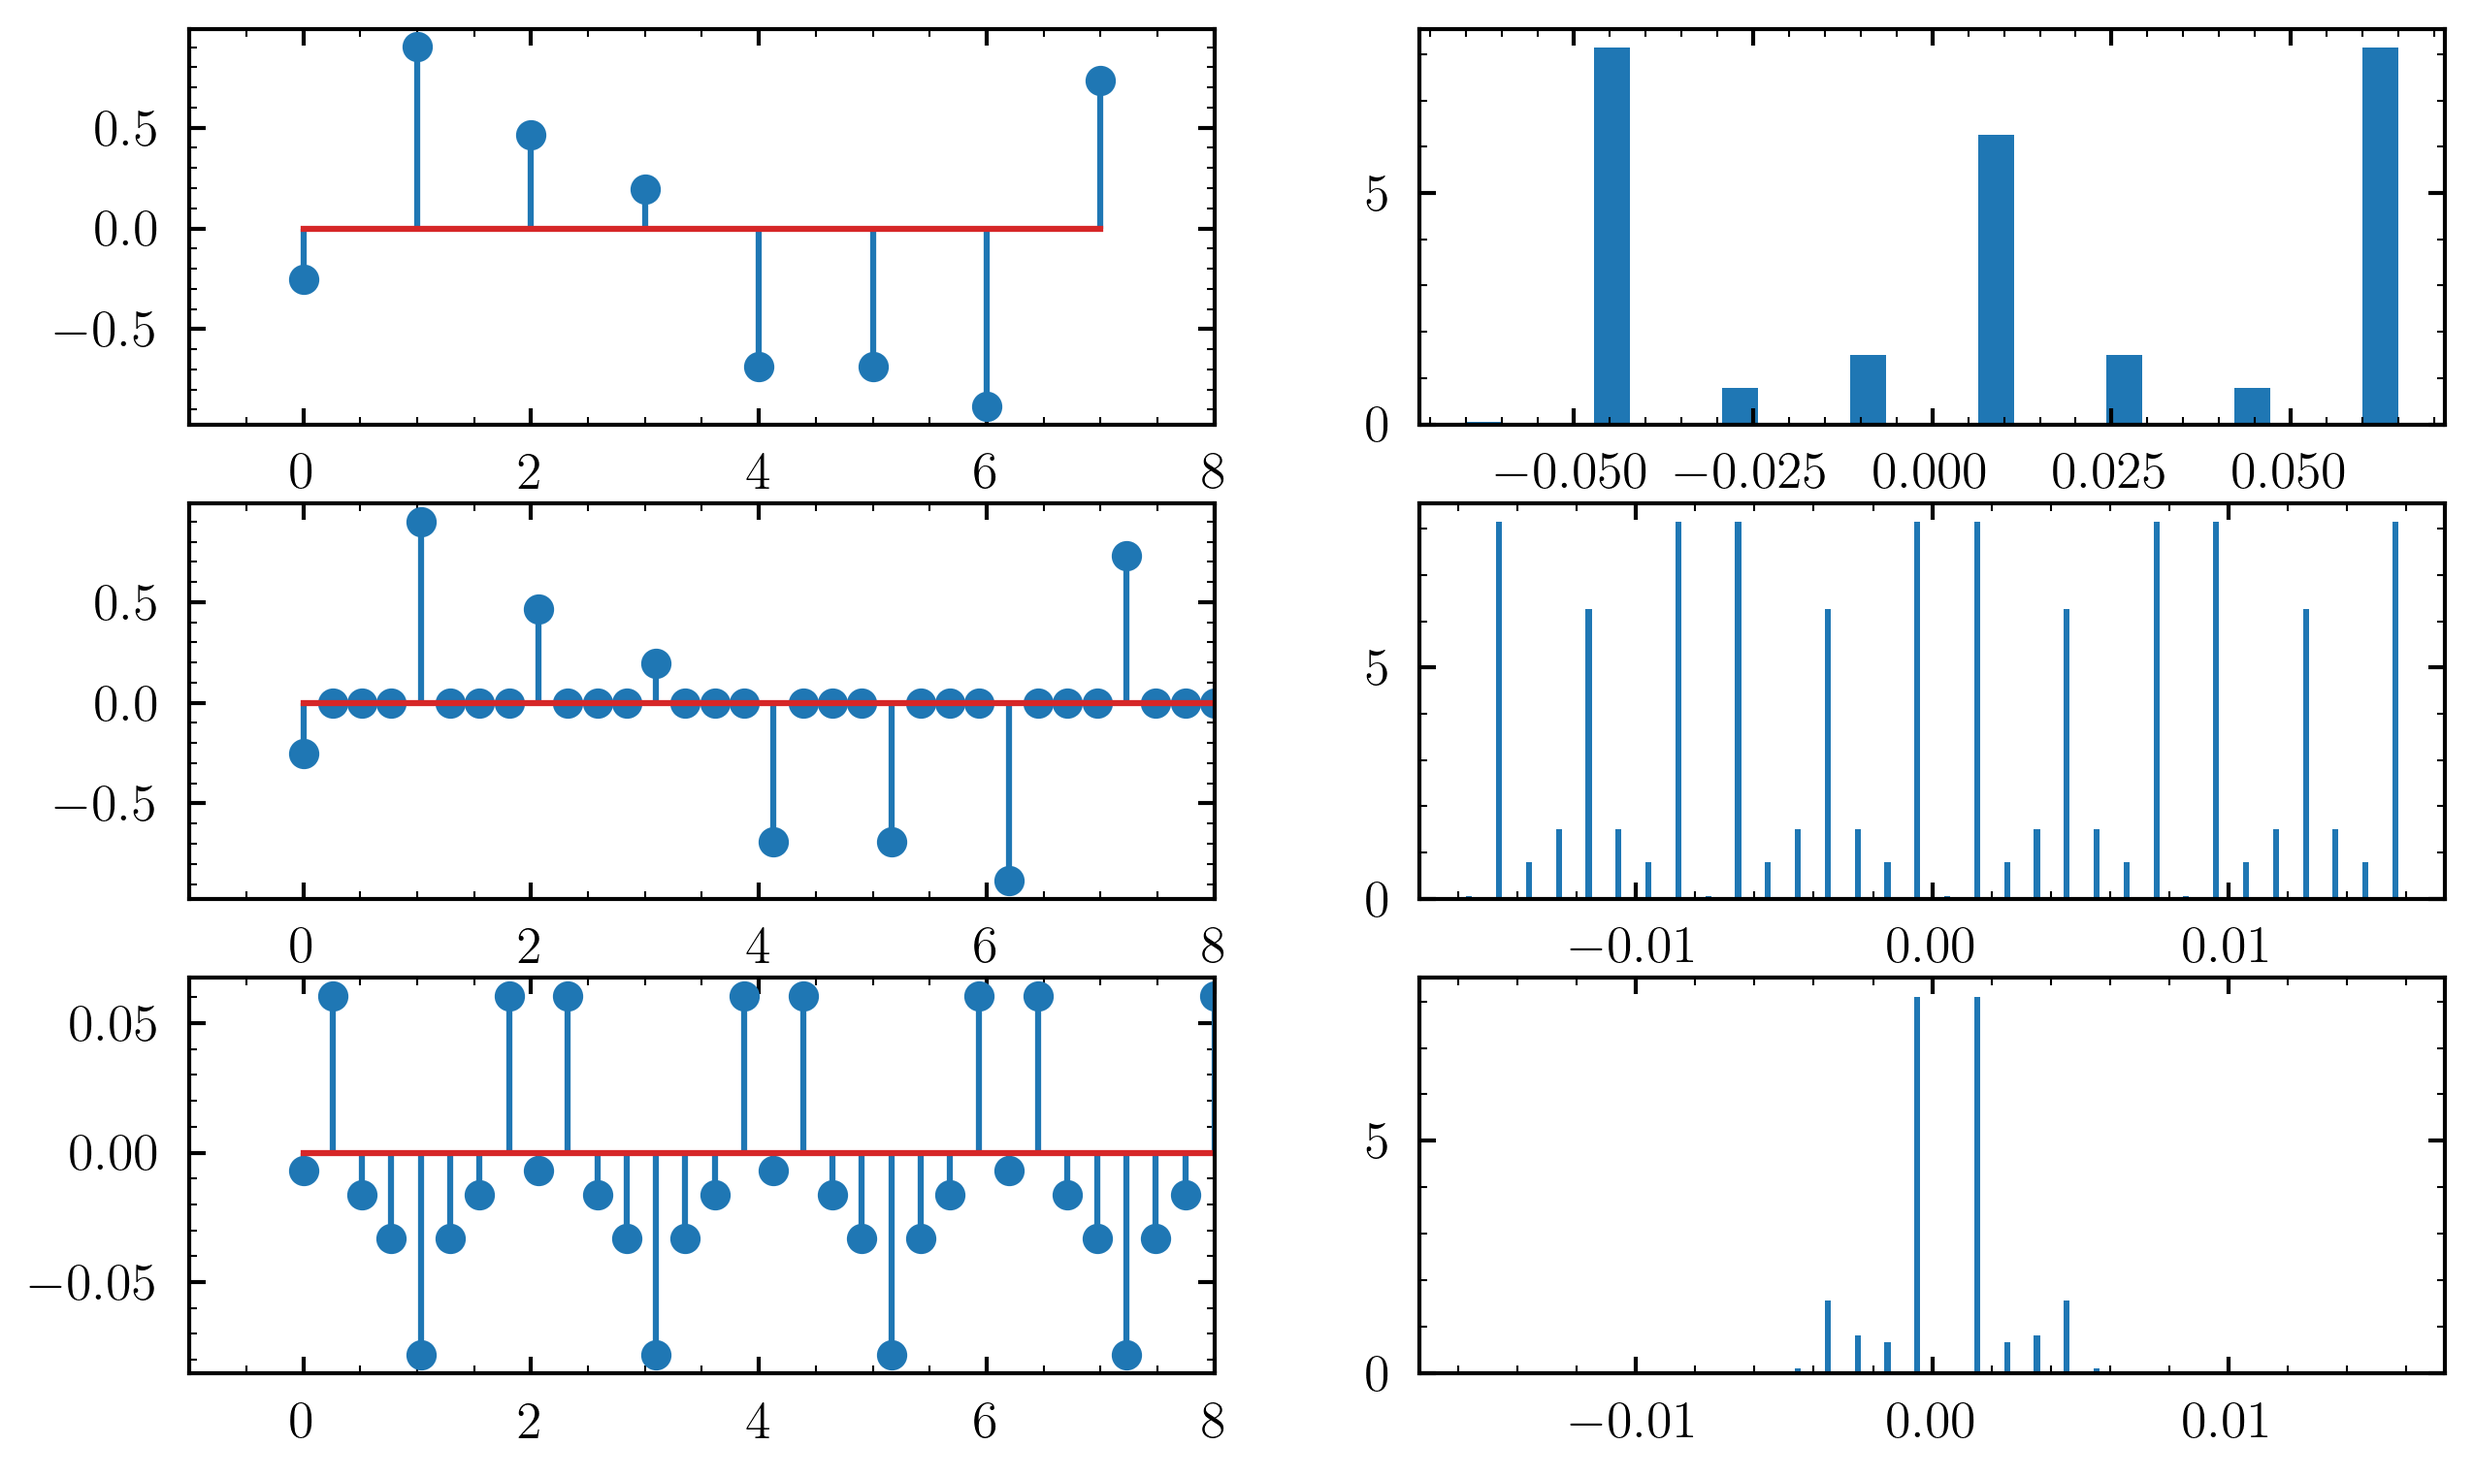
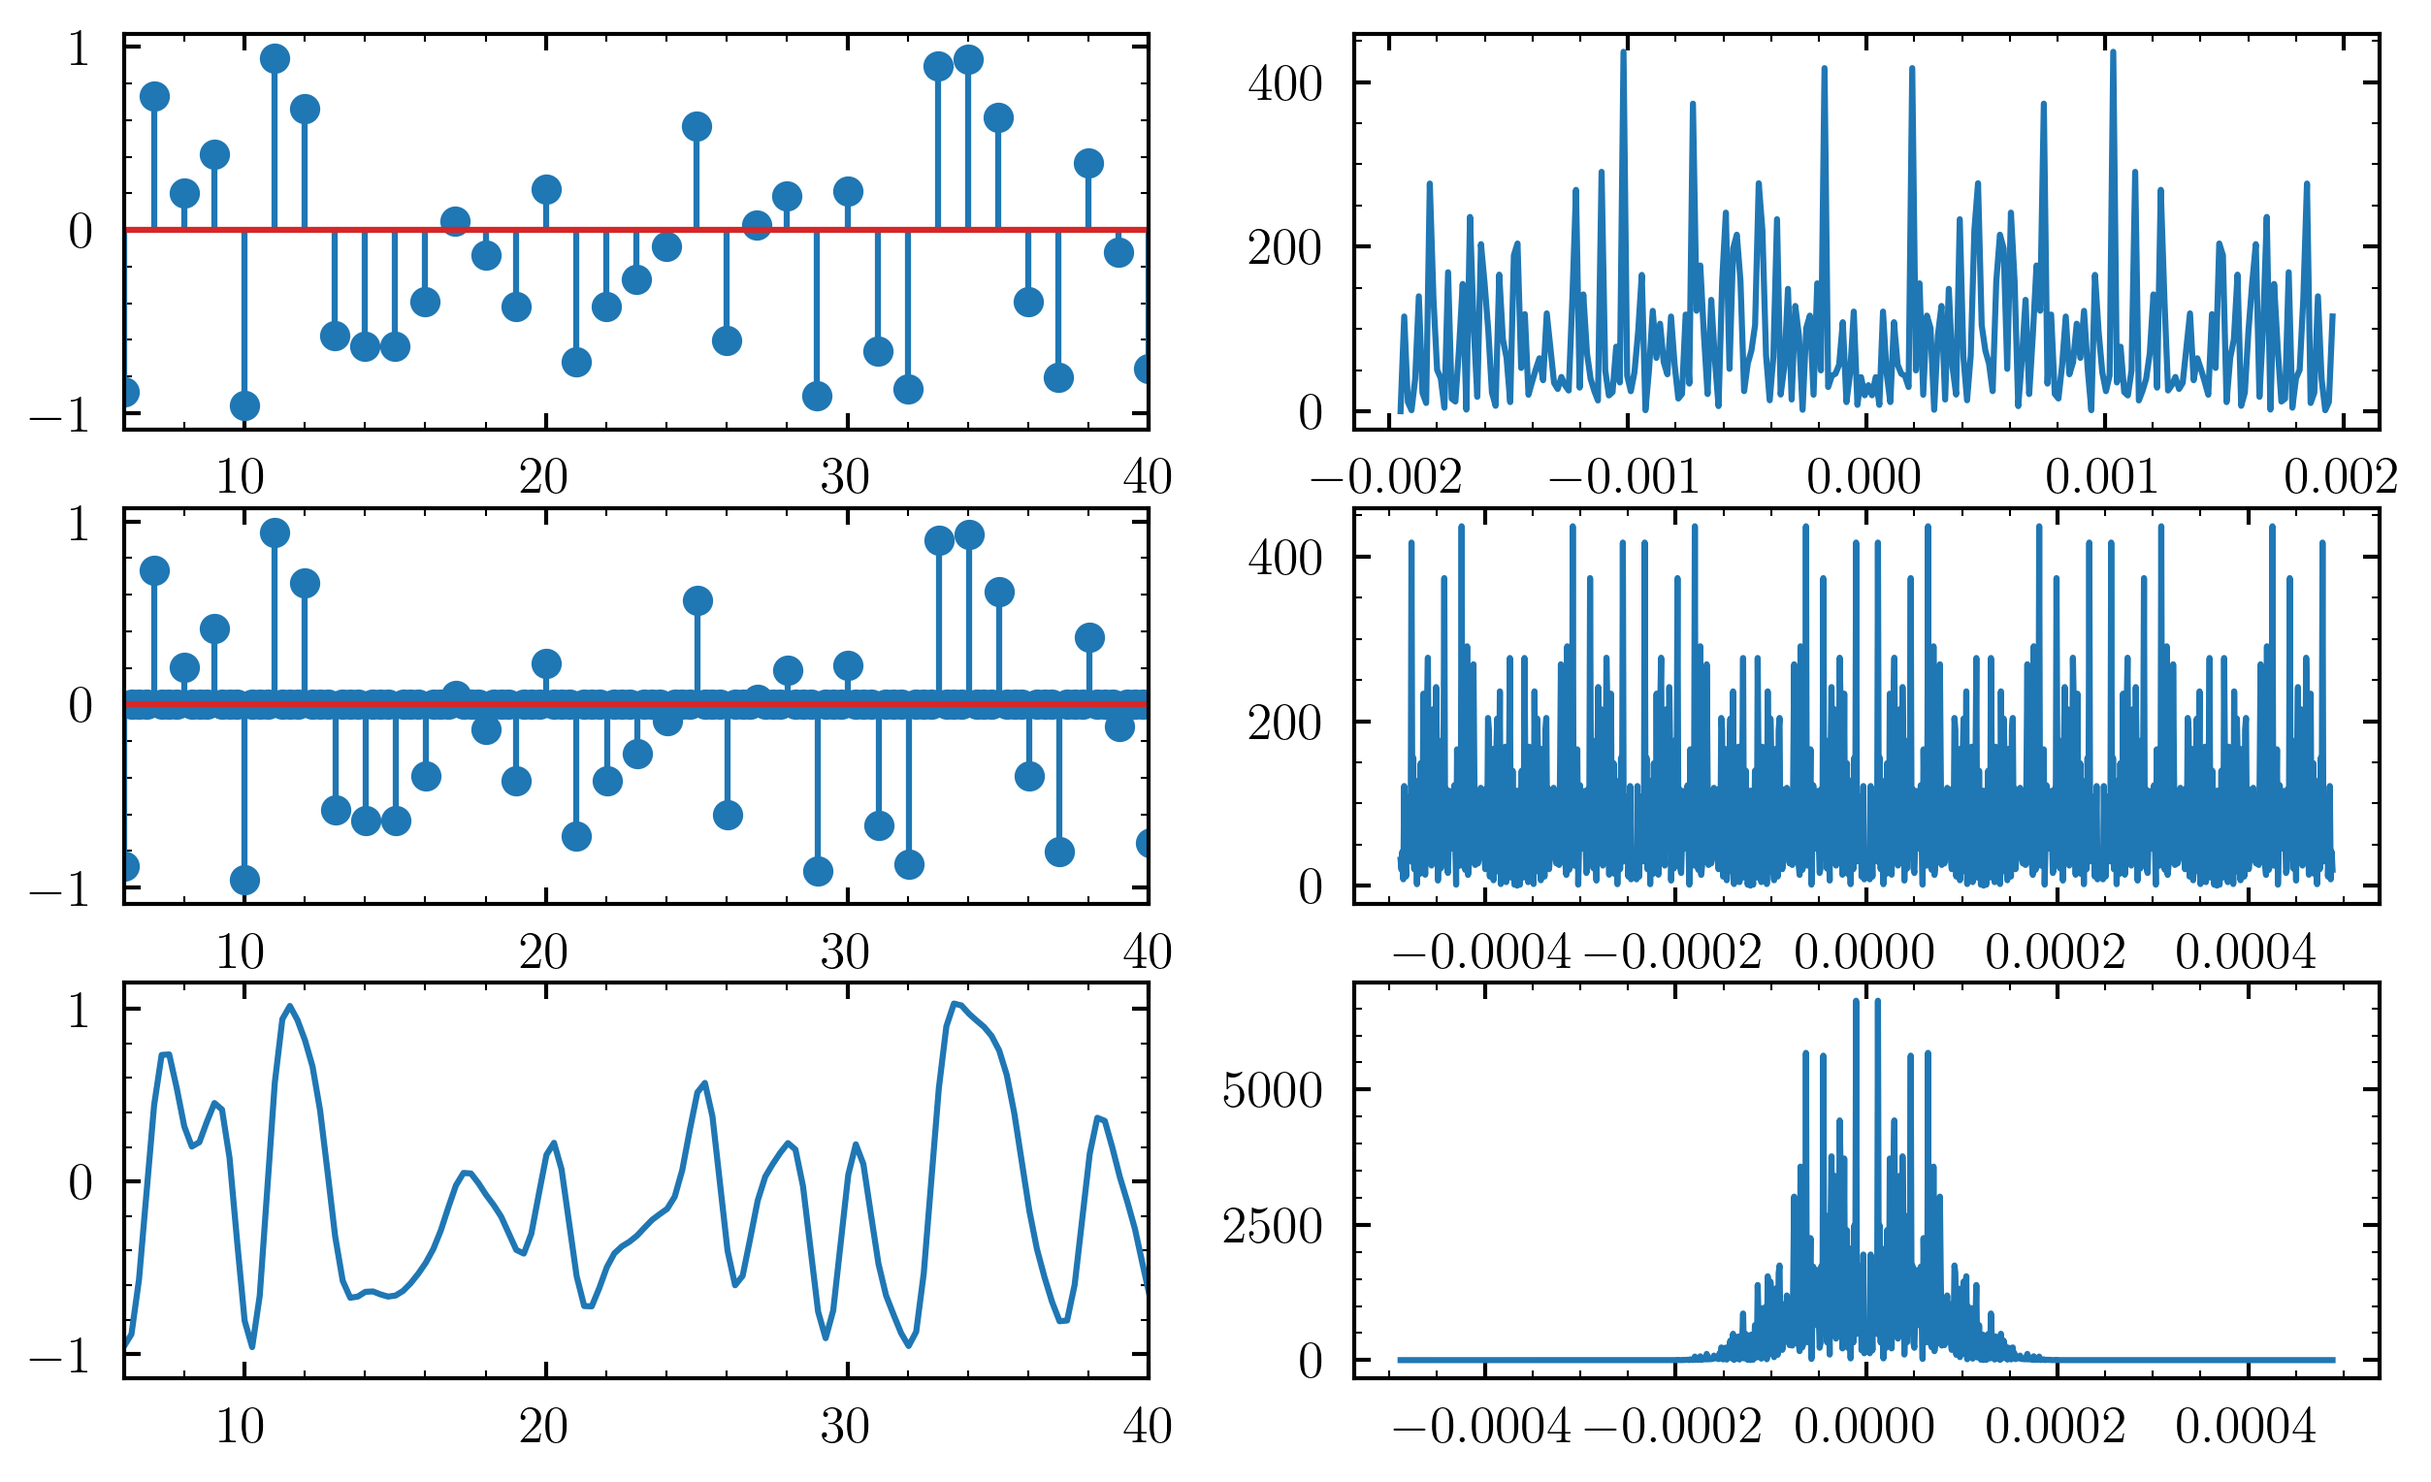
added qkd alice,bob,eve diagrams, updated pulse-shaping scripts

diff --git a/matlab/pulse_shaping.m b/matlab/pulse_shaping.m
@@ -1,54 +1,74 @@
-nsym = 8; % number of symbols
-sps = 4; % samples per symbol
+% number of symbols
+nsym = 128;
+% samples per symbol (upsampling factor)
+sps = 4;
 
-x1 = 2*rand(nsym,1) - 1; % random symbols
-x2 = upsample(x1,sps); % upsample to sps
+% complex random symbols
+x1 = 2*rand(nsym, 1) - 1;
+p1 = 2*rand(length(x1), 1) - 1;
+alpha1 = x1 + p1*1i;
 
-% time in units of symbols
-t1 = (0:(length(x1)-1)).';
-t2 = (0:(length(x2)-1)).'/sps;
+% upsampling
+alpha2 = upsample(alpha1, sps);
 
-% raised-root-cosine filter
-rcc = rcosdesign(0.8,16,sps,'sqrt');
-%x3 = filter(rcc,1,x2);
-x3 = upfirdn(x1,rcc,sps);
+% symbol time
+t1 = (0:(length(alpha1) - 1)).';
+t2 = (0:(length(alpha2) - 1)).'/sps;
 
-% fourier transforms
-P1 = abs(fft(x1,length(x1))).^2;
-f1 = ((0:1/length(x1):1-1/length(x1))).';
-P2 = abs(fft(x2,length(x2))).^2;
-f2 = ((0:1/length(x2):1-1/length(x2))).';
-P3 = abs(fft(x3,length(x3))).^2;
+% rrc filtering
+rrc = rcosdesign(0.8, 16, sps, 'sqrt');
+alpha3 = conv(alpha2, rrc / rrc(8*uf+1), 'same');
 
+% lowpass filtering
+[b, a] = butter(7, 0.08);
+alpha4 = filtfilt(b, a, upsample(alpha3, 10));
+t4 = (0:(length(alpha4) - 1)).'/(sps*10);
 
-tl = tiledlayout(3,2,'TileSpacing','Compact','Padding','Compact');
-xlabel(tl,'Samples')
-ylabel(tl,'Signal')
-
+figure
+tl = tiledlayout(4, 1);
+symlims = [10, 30];
+xlabel(tl, 'Symbol number')
+ylabel(tl, 'Signal')
 nexttile
-stem(t1,x1)
-xlim([0,8])
-ylim([-1.2,1.2])
-title('Original (time)')
-
+stem(t1, real(alpha1), '-o')
+hold on
+stem(t1, imag(alpha1), '-x')
+xlim(symlims)
+title('Symbols');
+hold off
 nexttile
-plot(f1,P1)
-title('Original (freq)')
-
+stem(t2, real(alpha2), '-o')
+hold on
+stem(t2, imag(alpha2), '-x')
+xlim(symlims)
+title('Upsampling');
+hold off
 nexttile
-stem(t2,x2)
-ylim([-1.2,1.2])
-title('Upsampled (time)')
-
+stem(t2, real(alpha3), '-o')
+hold on
+stem(t2, imag(alpha3), '-x')
+xlim(symlims)
+title('Root-raised-cosine');
+hold off
 nexttile
-plot(f2,P2)
-title('Upsampled (freq)')
+plot(t4, real(alpha4))
+hold on
+plot(t4, imag(alpha4))
+xlim(symlims)
+title('Lowpass');
+hold off
 
-nexttile
-stem(t2,x3)
-ylim([-1.2,1.2])
-title('Pulse-shaped (time)')
+[pxx1,f1] = pwelch(alpha1, [], [], 'centered');
+[pxx2,f2] = pwelch(alpha2, [], [], 'centered');
+[pxx3,f3] = pwelch(alpha3, [], [], 'centered');
+[pxx4,f4] = pwelch(alpha4, [], [], 'centered');
 
-nexttile
-plot(f2,P3)
-title('Pulse-shaped (freq)')
+figure
+plot(fftshift(f1), fftshift(pxx1) / sum(pxx1))
+hold on
+plot(fftshift(f2), fftshift(pxx2) / sum(pxx2))
+plot(fftshift(f3), fftshift(pxx3) / sum(pxx3))
+plot(fftshift(f4), fftshift(pxx4) / sum(pxx4))
+legend('Symbols', 'Upsampling', 'Root-raised-cosine', 'Lowpass')
+grid on
+hold off

diff --git a/python/pulse_shaping.py b/python/pulse_shaping.py
@@ -3,10 +3,12 @@ import raised_root_cosine as rcc
 
 from matplotlib import pyplot as plt
 
+from commpy.filters import rcosfilter, rrcosfilter
+
 np.random.seed(42)
 
 # number of symbols
-nos = 8
+nos = 256
 # samples per symbol
 sps = 4
 
@@ -14,34 +16,40 @@ sps = 4
 x1 = np.random.uniform(-1, 1, nos)
 t1 = np.arange(nos)
 f1 = (np.linspace(0, 1, len(x1)) - 0.5) / len(x1)
-P1 = np.abs(np.fft.fft(x1)) ** 2
+P1 = np.abs(np.fft.fftshift(np.fft.fft(x1))) ** 2
 
 # upsampling
 x2 = np.zeros(nos * sps)
 x2[::sps] = x1
 t2 = np.linspace(0, nos, len(x2))
 f2 = (np.linspace(0, 1, len(x2)) - 0.5) / len(x2)
-P2 = np.abs(np.fft.fft(x2)) ** 2
+P2 = np.abs(np.fft.fftshift(np.fft.fft(x2))) ** 2
 
 # pulse-shaping
-X3 = np.fft.fft(x2) * rcc.transfer(len(x2), 0.8, len(x2) // (2 * sps))
-x3 = np.fft.ifft(x2).real
-P3 = np.abs(X3) ** 2
+_, rrc = rcosfilter(64, 0.8, 4, 1)
+x3 = np.convolve(x2, rrc, "same")
+# X3 = np.fft.fft(x2) * rcc.transfer(len(x2), 0.8, len(x2) // (2 * sps))
+# x3 = np.fft.ifft(x2).real
+# P3 = np.abs(X3) ** 2
+P3 = np.abs(np.fft.fftshift(np.fft.fft(x3))) ** 2
+
+xlim = [6, 40]
 
 plt.figure(figsize=(10, 6))
 plt.subplot(321)
 plt.stem(t1, x1)
-plt.xlim([-1, 8])
+plt.xlim(xlim)
 plt.subplot(322)
-plt.bar(f1, P1, 5e-3)
+plt.plot(f1, P1)
 plt.subplot(323)
 plt.stem(t2, x2)
-plt.xlim([-1, 8])
+plt.xlim(xlim)
 plt.subplot(324)
-plt.bar(f2, P2, 2e-4)
+plt.plot(f2, P2)
 plt.subplot(325)
-plt.stem(t2, x3)
-plt.xlim([-1, 8])
+# plt.stem(t2, x2)
+plt.plot(t2, x3)
+plt.xlim(xlim)
 plt.subplot(326)
-plt.bar(f2, P3, 2e-4)
+plt.plot(f2, P3)
 plt.savefig("pulse-shaping.png")

diff --git a/latex/figures/tikz/qkd-eve.tex b/latex/figures/tikz/qkd-eve.tex
@@ -1,0 +1,21 @@
+\documentclass[tikz]{standalone}
+
+\usepackage{amsmath}
+
+\usetikzlibrary{arrows,calc}
+
+\begin{document}
+	\begin{tikzpicture}[
+		node distance=3em,
+		arrow/.style={-latex},
+		darrow/.style={latex-latex},
+		block/.style={draw, minimum height=12ex, minimum width=8em, align=center},
+	]
+		\node at (0,0) (tx) {};
+		\node at (5,2) (eve) [block] {Eve};
+		\node at (10,0) (rx) {};
+		
+		\draw[arrow] ([yshift=4ex]tx.east) -- node[anchor=south, xshift=-6em]{Quantum channel} ([yshift=4ex]rx.west);
+		\draw[darrow] ([yshift=-4ex]tx.east) -- node[anchor=south, xshift=-6em]{Classical channel} ([yshift=-4ex]rx.west);
+	\end{tikzpicture}
+\end{document}

diff --git a/latex/figures/tikz/qkd-alice-bob.tex b/latex/figures/tikz/qkd-alice-bob.tex
@@ -1,0 +1,20 @@
+\documentclass[tikz]{standalone}
+
+\usepackage{amsmath}
+
+\usetikzlibrary{arrows,calc}
+
+\begin{document}
+	\begin{tikzpicture}[
+		node distance=3em,
+		arrow/.style={-latex},
+		darrow/.style={latex-latex},
+		block/.style={draw, minimum height=20ex, minimum width=8em, align=center},
+	]
+		\node at (0,0) (tx) [block] {Alice};
+		\node at (10,0) (rx) [block] {Bob};
+		
+		\draw[arrow] ([yshift=4ex]tx.east) -- node[anchor=south]{Quantum channel} ([yshift=4ex]rx.west);
+		\draw[darrow] ([yshift=-4ex]tx.east) -- node[anchor=south]{Classical channel} ([yshift=-4ex]rx.west);
+	\end{tikzpicture}
+\end{document}

diff --git a/latex/chapters/cv-qkd/introduction.tex b/latex/chapters/cv-qkd/introduction.tex
@@ -1,3 +1,11 @@
-% working principle
+\begin{figure}[htb]
+	\centering
+	\includestandalone[mode=buildnew]{figures/tikz/qkd-alice-bob}
+	\caption{\Gls{qkd} system between two spatially distanced parties Alice and Bob comprising a quantum channel and an authenticated classical channel.}
+\end{figure}
 
-foo foo bar
+\begin{figure}[htb]
+	\centering
+	\includestandalone[mode=buildnew]{figures/tikz/qkd-eve}
+	\caption{Eavesdroppers Eve access to the quantum and authenticated classical channel.}
+\end{figure}

diff --git a/python/raised_root_cosine.py b/python/raised_root_cosine.py
@@ -30,7 +30,7 @@ if __name__ == "__main__":
     from matplotlib import pyplot as plt
 
     plt.title("Raised-root-cosine")
-    plt.plot(rrc_coeffs(32, 0.0, 4), label=r"\beta=0")
-    plt.plot(rrc_coeffs(32, 0.8, 4), label=r"\beta=0.8")
-    plt.plot(rrc_coeffs(32, 1.0, 4), label=r"\beta=1.0")
+    plt.plot(transfer(32, 0.0, 4), label=r"\beta=0")
+    plt.plot(transfer(32, 0.8, 4), label=r"\beta=0.8")
+    plt.plot(transfer(32, 1.0, 4), label=r"\beta=1.0")
     plt.savefig("raised-root-cosine.png")

diff --git a/latex/main.tex b/latex/main.tex
@@ -162,6 +162,7 @@
 		\include{chapters/cv-qkd/introduction}
 		\section{Communication system}
 		\include{chapters/cv-qkd/post-processing}
+		\section{Security analysis}
 
 		\addcontentsline{toc}{section}{References}
 		\printbibliography[title=References]
